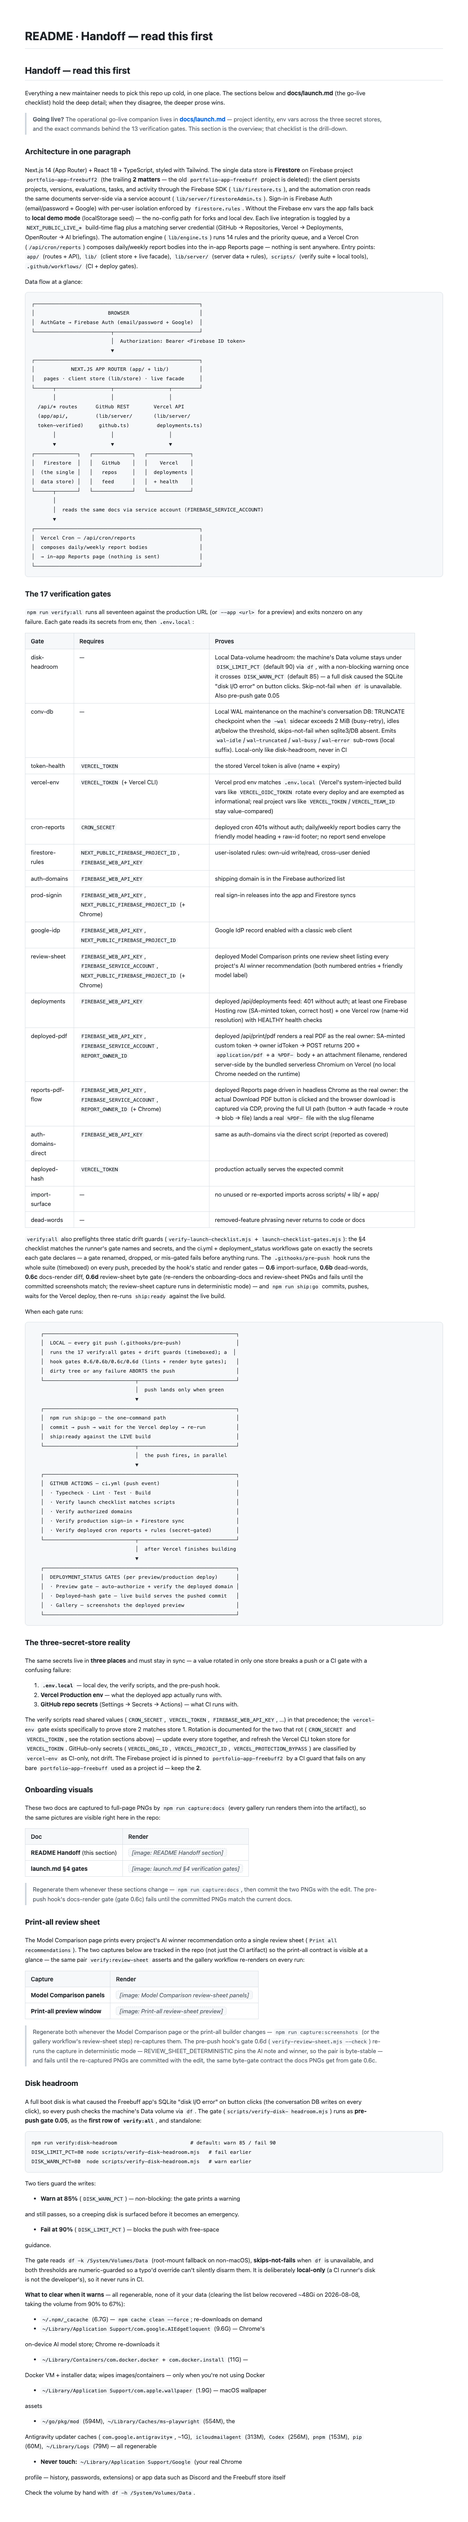
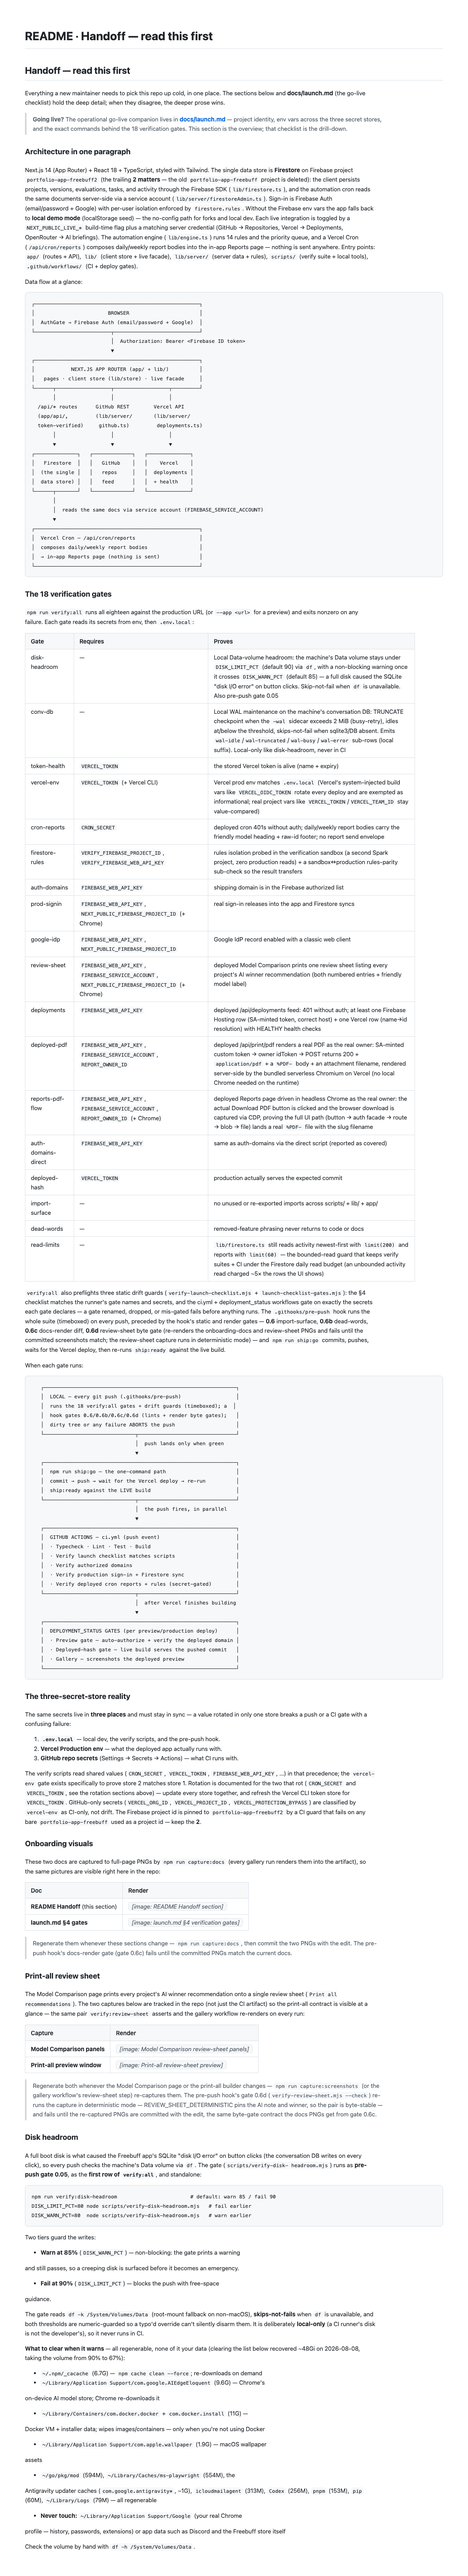
feat(verify): probe Firestore rules in a dedicated verification sandbox
verify-firestore-rules now targets the verification sandbox project
(portfolio-app-freebuff-verify, a second Spark project) via
VERIFY_FIREBASE_PROJECT_ID + VERIFY_FIREBASE_WEB_API_KEY, so probe/CI
reads never touch the production Firestore read quota. It ends with a
rules-parity sub-check — both projects' DEPLOYED rules read via the admin
rules API (zero document reads, needs FIREBASE_SERVICE_ACCOUNT) — so the
sandbox result transfers to production only while both run the same
ruleset, and falls back to probing production (with a notice) when the
sandbox vars are absent. A deploy:rules helper keeps both projects in
sync from the repo firestore.rules file.

Wired through: verify:all GATES entry + REQUIRES cell, the verify-deployed
ci.yml step (gated on the sandbox pair, with the loud-secret guard
extended), the rules-parity VERIFY-SUBRESULT label, .env.example, both
onboarding docs, the two contract tests, and the regenerated docs PNGs.

Changed region(s): [[0.0308, 0.0311, 0.8633, 0.9957], [0.1542, 0.3111, 0.37, 0.4667], [0.555, 0.8712, 0.6475, 0.9023]]

diff --git a/scripts/ci-workflows.test.ts b/scripts/ci-workflows.test.ts
@@ -126,14 +126,17 @@ describe('.github/workflows/ci.yml · verify-deployed job (post-deploy smoke gat
     expect(verifyDeployedBlock).toContain('CRON_SECRET: ${{ secrets.CRON_SECRET }}');
   });
 
-  it('still runs the deployed Firestore rules step, gated on FIREBASE_WEB_API_KEY, pinned to freebuff2', () => {
+  it('still runs the Firestore rules step, gated on the verification-sandbox pair', () => {
+    // The rules gate probes the VERIFICATION SANDBOX (a second Spark project)
+    // so CI never touches the production read quota; it must never fall back
+    // to production here. Both sandbox vars are gated (a missing one skips
+    // only on forks), and the service account is passed so the gate's
+    // sandbox↔production rules-parity sub-check can run.
     expect(verifyDeployedBlock).toMatch(/run: node scripts\/verify-firestore-rules\.mjs/);
-    expect(verifyDeployedBlock).toContain("if: ${{ env.FIREBASE_WEB_API_KEY != '' }}");
-    expect(verifyDeployedBlock).toContain('FIREBASE_WEB_API_KEY: ${{ secrets.FIREBASE_WEB_API_KEY }}');
-    // The project-id pin is part of the rules gate: the rules verifier must
-    // always probe the freebuff2 project, never a bare freebuff that a
-    // copy-paste could reintroduce.
-    expect(verifyDeployedBlock).toContain('NEXT_PUBLIC_FIREBASE_PROJECT_ID: portfolio-app-freebuff2');
+    expect(verifyDeployedBlock).toContain("if: ${{ env.VERIFY_FIREBASE_WEB_API_KEY != '' && env.VERIFY_FIREBASE_PROJECT_ID != '' }}");
+    expect(verifyDeployedBlock).toContain('VERIFY_FIREBASE_WEB_API_KEY: ${{ secrets.VERIFY_FIREBASE_WEB_API_KEY }}');
+    expect(verifyDeployedBlock).toContain('VERIFY_FIREBASE_PROJECT_ID: ${{ secrets.VERIFY_FIREBASE_PROJECT_ID }}');
+    expect(verifyDeployedBlock).toContain('FIREBASE_SERVICE_ACCOUNT: ${{ secrets.FIREBASE_SERVICE_ACCOUNT }}');
   });
 
   it('still runs the Google sign-in IdP config step, gated on FIREBASE_WEB_API_KEY', () => {

diff --git a/scripts/launch-checklist-ci.test.ts b/scripts/launch-checklist-ci.test.ts
@@ -32,7 +32,10 @@ describe('parseCiGateSteps (live repo)', () => {
     const byRun = new Map(steps.map((s) => [s.run, s]));
     expect(byRun.get('verify-token-health.mjs').gatingSecrets).toEqual(['VERCEL_TOKEN']);
     expect(byRun.get('verify-cron-reports.mjs').gatingSecrets).toEqual(['CRON_SECRET']);
-    expect(byRun.get('verify-firestore-rules.mjs').gatingSecrets).toEqual(['FIREBASE_WEB_API_KEY']);
+    // The rules gate probes the verification sandbox (second Spark project)
+    // so CI never touches the production read quota; both sandbox vars are
+    // gated.
+    expect(byRun.get('verify-firestore-rules.mjs').gatingSecrets).toEqual(['VERIFY_FIREBASE_WEB_API_KEY', 'VERIFY_FIREBASE_PROJECT_ID']);
     expect(byRun.get('verify-google-idp.mjs').gatingSecrets).toEqual(['FIREBASE_WEB_API_KEY']);
     expect(byRun.get('verify-auth-domains.mjs').gatingSecrets).toEqual(['FIREBASE_WEB_API_KEY']);
     expect(byRun.get('verify-prod-signin.mjs').gatingSecrets).toEqual(['FIREBASE_WEB_API_KEY']);

diff --git a/scripts/launch-checklist-secrets.test.ts b/scripts/launch-checklist-secrets.test.ts
@@ -51,8 +51,8 @@ describe('crossCheckVerifyAllSecrets (live repo)', () => {
     // Simulate the runner gaining a new required secret (firestore-rules →
     // + REPORT_OWNER_ID) while the doc row is untouched.
     const drifted = verifyAllSrc.replace(
-      "secrets: ['NEXT_PUBLIC_FIREBASE_PROJECT_ID', 'FIREBASE_WEB_API_KEY'], capture: true",
-      "secrets: ['NEXT_PUBLIC_FIREBASE_PROJECT_ID', 'FIREBASE_WEB_API_KEY', 'REPORT_OWNER_ID'], capture: true",
+      "secrets: ['VERIFY_FIREBASE_PROJECT_ID', 'VERIFY_FIREBASE_WEB_API_KEY'], capture: true",
+      "secrets: ['VERIFY_FIREBASE_PROJECT_ID', 'VERIFY_FIREBASE_WEB_API_KEY', 'REPORT_OWNER_ID'], capture: true",
     );
     const failures = crossCheckVerifyAllSecrets({ rows, header, verifyAllSrc: drifted, npmScripts });
     expect(failures.join('\n')).toContain('REPORT_OWNER_ID');

diff --git a/docs/launch.md b/docs/launch.md
@@ -78,7 +78,7 @@ Each exits nonzero on failure. Read secrets from env, then `.env.local`.
 | `npm run verify:token-health` | `VERCEL_TOKEN` | Stored `VERCEL_TOKEN` is alive: reads it (env → `.env.local` → CLI store), calls `GET /v2/user/tokens`, and reports the active token's name + expiry (or "no expiration"); a revoked token exits 2 with the paste-a-fresh-token guidance. Runs **first** in `verify:all` so a dead credential is caught in ~1s before any gate that depends on it |
 | `npm run verify:vercel-env` | `VERCEL_TOKEN` (+ Vercel CLI) | Vercel production env **matches** `.env.local`: pulls the decrypted values via `vercel env pull`, asserts every local key exists in Vercel prod with an identical value (report shows names + value lengths only, never the secrets), reports Vercel-only vars as informational, and classifies GitHub secrets — CI-only ones (e.g. `VERCEL_ORG_ID`) are expected, not drift, while a GitHub secret that `.env.local` has but Vercel prod lacks fails the gate. Vercel's system-injected build vars (`VERCEL_OIDC_TOKEN`, `VERCEL_URL`, the `VERCEL_GIT_*` metadata) rotate every build/deploy and are exempted from comparison (reported as informational, lengths only), so an untrimmed `vercel env pull` file passes; real project vars sharing the prefix (`VERCEL_TOKEN`, `VERCEL_TEAM_ID`) stay value-compared. Exits 1 on drift, 2 on an invalid token. Requires `VERCEL_TOKEN` + the Vercel CLI; `gh` degrades to skip-not-fail |
 | `npm run verify:cron-reports` | `CRON_SECRET` | Deployed `/api/cron/reports` 401s without auth; daily + weekly report bodies carry the friendly `(DeepSeek Chat)` heading and raw-id `Model:` footer; weekly winner-recommendation section present; **no report carries an `email` envelope** (the sweep shows as its own row in `verify:all`'s summary). Reports are composed in-app only — this proves the composed bodies still ship for the in-app Reports page |
-| `npm run verify:firestore-rules` | `NEXT_PUBLIC_FIREBASE_PROJECT_ID`, `FIREBASE_WEB_API_KEY` | Rules on `portfolio-app-freebuff2`: portfolio write/read under the user's uid, cross-user denied |
+| `npm run verify:firestore-rules` | `VERIFY_FIREBASE_PROJECT_ID`, `VERIFY_FIREBASE_WEB_API_KEY` | Rules isolation probed in the **verification sandbox** (`portfolio-app-freebuff-verify` — the second Spark project that absorbs probe/CI reads, so verification never touches the production read quota): portfolio write/read under the user's uid, cross-user denied. Ends with a `rules-parity` sub-check — the sandbox must run the SAME deployed rules as production (admin rules-API read, zero document reads; needs `FIREBASE_SERVICE_ACCOUNT`) — so the sandbox result transfers. Falls back to probing production when the sandbox vars are absent. Keep both projects' rules in sync from the repo file with `npm run deploy:rules` |
 | `npm run verify:auth-domains` | `FIREBASE_WEB_API_KEY` | `/api/status?project=<domain>` reports `authDomains.ok` for the shipping domain |
 | `node scripts/verify-prod-signin.mjs` | `FIREBASE_WEB_API_KEY`, `NEXT_PUBLIC_FIREBASE_PROJECT_ID` (+ Chrome) | AuthGate renders, email/password + Google buttons present, both IdPs enabled (admin API), sign-in releases into the Command Center, Firestore write/read sync proven; `[3b]` asserts the classic OAuth client |
 | `node scripts/verify-google-idp.mjs` | `FIREBASE_WEB_API_KEY`, `NEXT_PUBLIC_FIREBASE_PROJECT_ID` | `createAuthUri` resolves `google.com` with a classic web client id; admin API confirms the IdP record is enabled |

diff --git a/README.md b/README.md
@@ -108,7 +108,7 @@ reads its secrets from env, then `.env.local`:
 | token-health | `VERCEL_TOKEN` | the stored Vercel token is alive (name + expiry) |
 | vercel-env | `VERCEL_TOKEN` (+ Vercel CLI) | Vercel prod env matches `.env.local` (Vercel's system-injected build vars like `VERCEL_OIDC_TOKEN` rotate every deploy and are exempted as informational; real project vars like `VERCEL_TOKEN`/`VERCEL_TEAM_ID` stay value-compared) |
 | cron-reports | `CRON_SECRET` | deployed cron 401s without auth; daily/weekly report bodies carry the friendly model heading + raw-id footer; no report send envelope |
-| firestore-rules | `NEXT_PUBLIC_FIREBASE_PROJECT_ID`, `FIREBASE_WEB_API_KEY` | user-isolated rules: own-uid write/read, cross-user denied |
+| firestore-rules | `VERIFY_FIREBASE_PROJECT_ID`, `VERIFY_FIREBASE_WEB_API_KEY` | rules isolation probed in the verification sandbox (a second Spark project, zero production reads) + a sandbox↔production rules-parity sub-check so the result transfers |
 | auth-domains | `FIREBASE_WEB_API_KEY` | shipping domain is in the Firebase authorized list |
 | prod-signin | `FIREBASE_WEB_API_KEY`, `NEXT_PUBLIC_FIREBASE_PROJECT_ID` (+ Chrome) | real sign-in releases into the app and Firestore syncs |
 | google-idp | `FIREBASE_WEB_API_KEY`, `NEXT_PUBLIC_FIREBASE_PROJECT_ID` | Google IdP record enabled with a classic web client |
